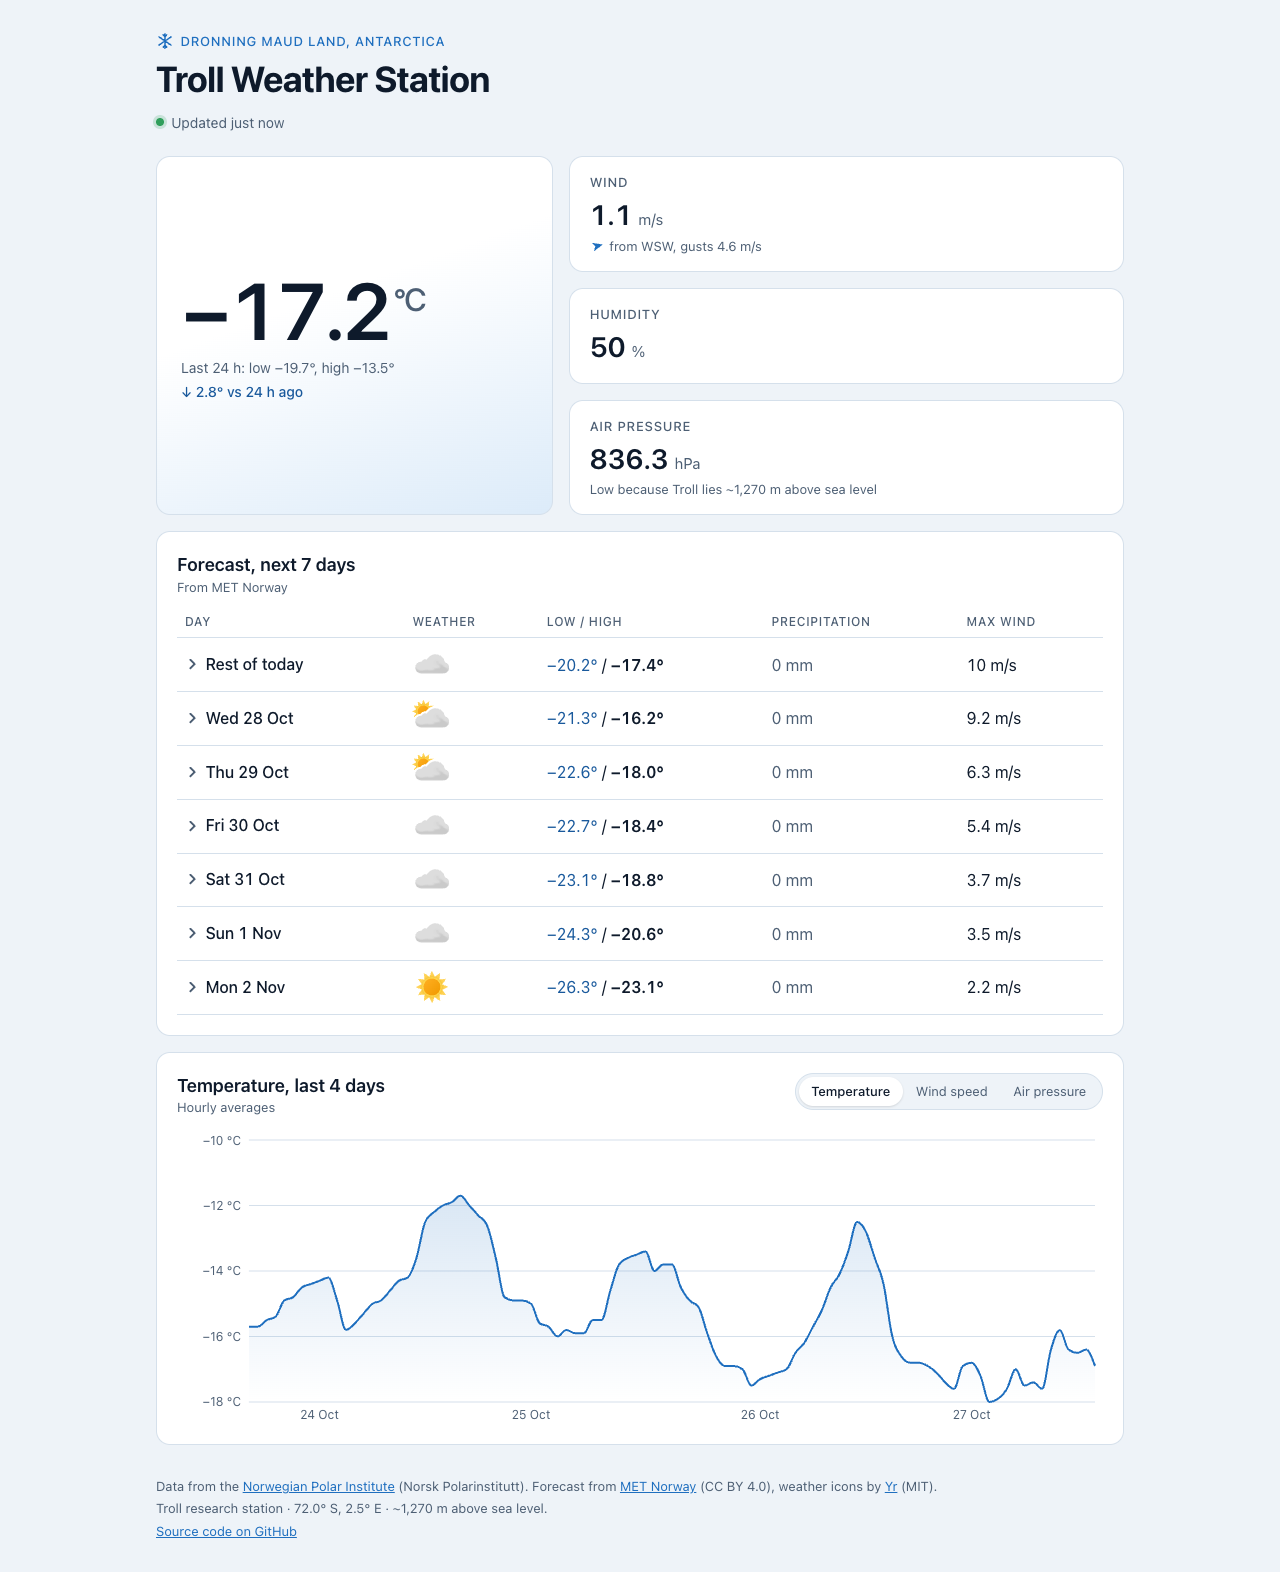
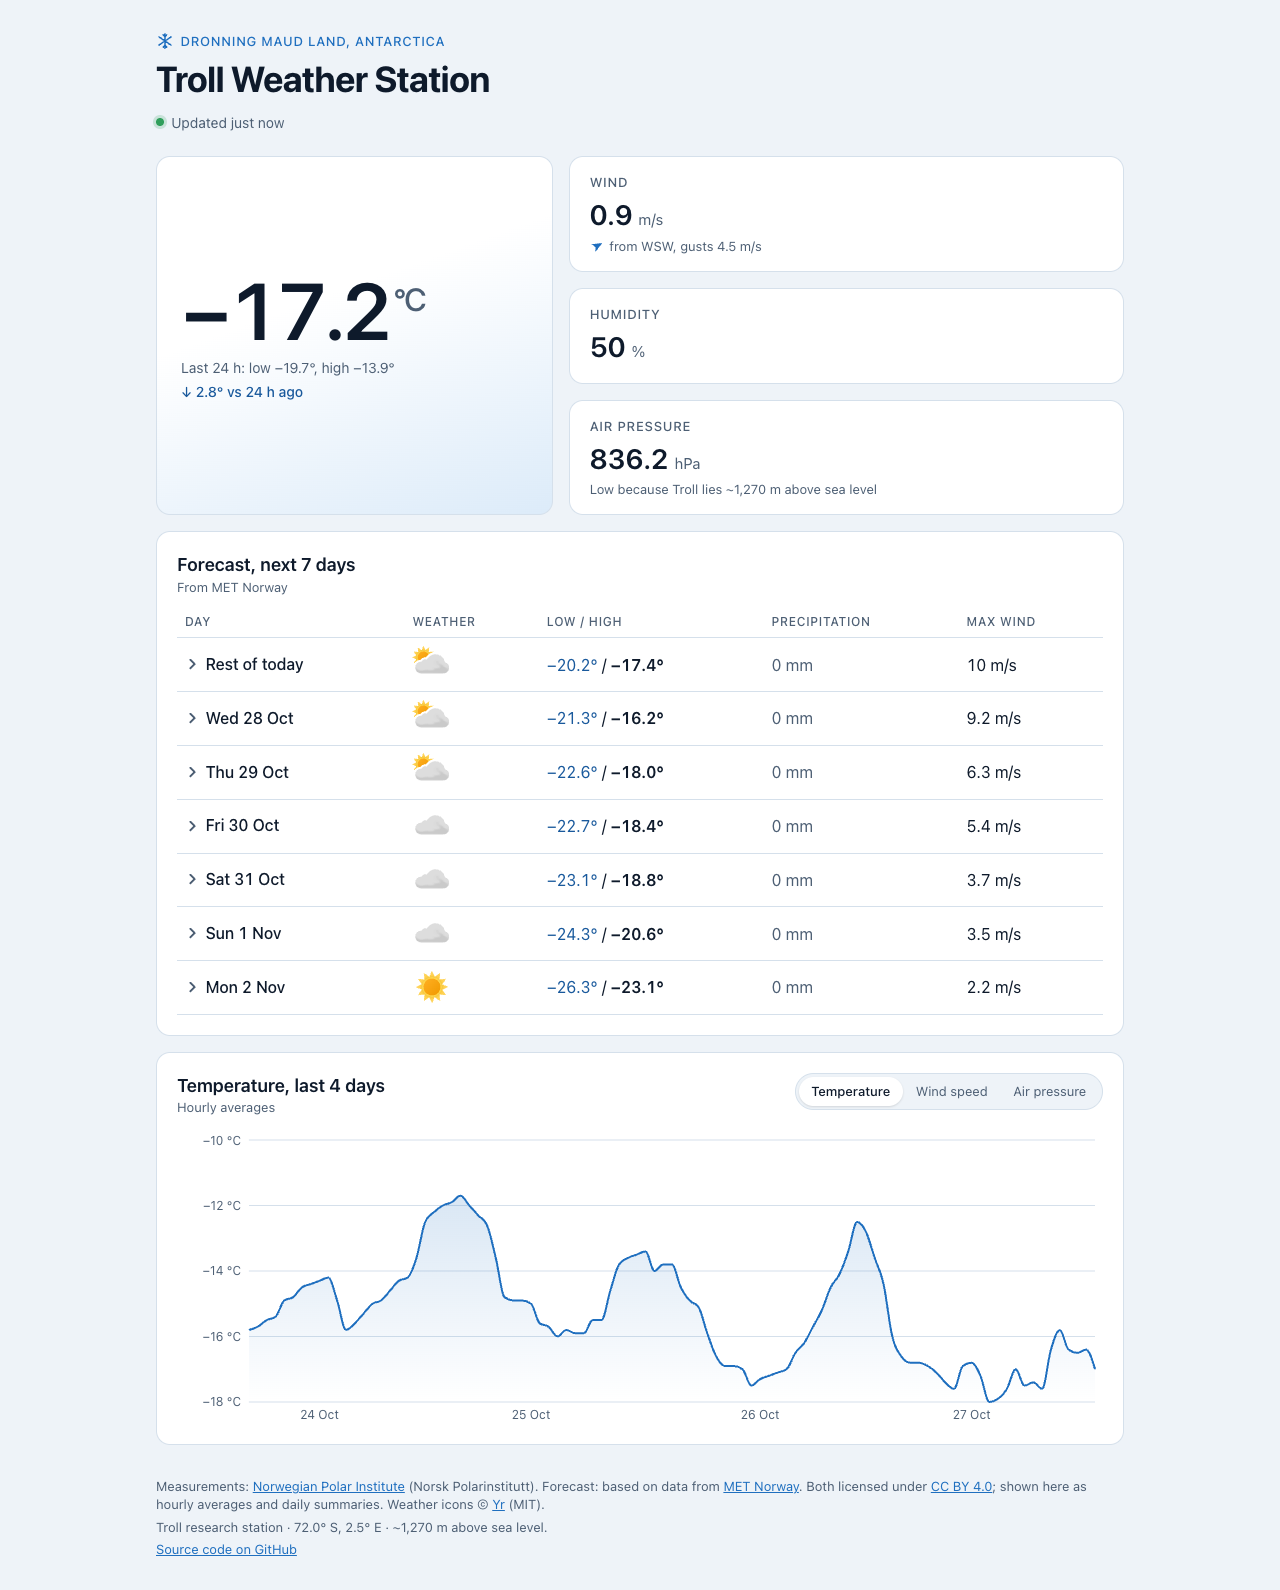
Complete CC BY 4.0 attribution and document data licences and terms
- Footer links the Troll dataset DOI and the CC BY 4.0 licence, and
  notes that values are aggregated (required by CC BY 4.0)
- Log MET Norway's 203 'deprecated' status as their terms ask
- README: licence table, point-by-point MET terms of service
  compliance and a privacy note

diff --git a/src/App.jsx b/src/App.jsx
@@ -33,10 +33,14 @@ function Shell({ children }) {
         {children}
       </main>
       <footer className="page-footer">
+        {/* CC BY 4.0 requires credit, a link to the licence and a note that the data was changed. */}
         <p>
-          Data from the <a href="https://www.npolar.no/en/">Norwegian Polar Institute</a> (Norsk
-          Polarinstitutt). Forecast from <a href="https://api.met.no/">MET Norway</a> (CC BY 4.0),
-          weather icons by <a href="https://github.com/metno/weathericons">Yr</a> (MIT).
+          Measurements: <a href="https://doi.org/10.21334/npolar.2017.79d4b7c7">Norwegian Polar
+          Institute</a> (Norsk Polarinstitutt). Forecast: based on data from{' '}
+          <a href="https://api.met.no/">MET Norway</a>. Both licensed under{' '}
+          <a href="https://creativecommons.org/licenses/by/4.0/">CC BY 4.0</a>; shown here as
+          hourly averages and daily summaries. Weather icons ©{' '}
+          <a href="https://github.com/metno/weathericons">Yr</a> (MIT).
         </p>
         <p>Troll research station · 72.0° S, 2.5° E · ~1,270 m above sea level.</p>
         <p>

diff --git a/src/forecast.js b/src/forecast.js
@@ -86,6 +86,8 @@ export function summariseDays(timeseries, days = 7) {
 export async function fetchForecast() {
   const response = await fetch(FORECAST_URL)
   if (!response.ok) throw new Error(`Forecast error: ${response.status}`)
+  // MET's terms: 203 means this API version is deprecated – log it so it gets noticed.
+  if (response.status === 203) console.warn('MET Norway: Locationforecast 2.0 is deprecated, see https://api.met.no/')
   const result = await response.json()
   return {
     updatedAt: result.properties.meta.updated_at,

diff --git a/README.md b/README.md
@@ -177,6 +177,32 @@ declarative API and good documentation.
 - Wind chill uses the North American / UK formula and is only shown for wind above 4.8 km/h.
 - The low air pressure (~840 hPa) is expected: Troll lies about 1,270 m above sea level.
 
-Data: [Norwegian Polar Institute](https://www.npolar.no/en/) open weather API ·
-forecast from [MET Norway](https://api.met.no/) (CC BY 4.0) ·
-weather icons from [metno/weathericons](https://github.com/metno/weathericons) (MIT).
+## Data, licences and terms
+
+| Source | Licence | How this app complies |
+|---|---|---|
+| [Troll meteorological data](https://doi.org/10.21334/npolar.2017.79d4b7c7), Norwegian Polar Institute | CC BY 4.0 | Credited with DOI link, licence link and a note that values are aggregated |
+| [Locationforecast](https://api.met.no/weatherapi/locationforecast/2.0/documentation), MET Norway | CC BY 4.0 / NLOD 2.0 + [terms of service](https://api.met.no/doc/TermsOfService) | See below |
+| [Weather icons](https://github.com/metno/weathericons), © Yr | MIT | Licence file shipped with the icons (`public/weather-icons/LICENSE.txt`) |
+
+MET Norway's terms of service, point by point:
+
+- **Credit:** "based on data from MET Norway" with a link to the licence, and changes noted.
+- **Identification:** browsers can't set `User-Agent`, so – as the terms allow for websites –
+  the app is identified by the `Origin` header of its simple cross-origin `GET` requests
+  (no custom headers, so no CORS preflight, which MET does not support).
+- **Caching:** responses are kept for 30 minutes and the browser's HTTP cache honours
+  `Expires` and revalidates with `If-Modified-Since`; no polling while the tab is hidden.
+- **Traffic:** one request per visitor per 30 minutes, far below the 20 requests/second limit.
+  MET asks high-traffic sites to put a caching proxy in front of the API; that would be the
+  next step if this site ever got real traffic.
+- **Coordinates** use 2 decimals (max 4 allowed); HTTPS and gzip are used; a `203`
+  (deprecated version) response is logged.
+- **Branding:** the site isn't presented as Yr or MET Norway. Saying that MET's Locationforecast
+  is the same data Yr uses is a factual statement, not an endorsement.
+
+Privacy: the site sets no cookies and has no analytics. `localStorage` only holds cached
+weather data. Visitors' browsers contact GitHub Pages, the Polar Institute and MET Norway
+directly, so those services see the visitor's IP address – a proxy would hide it.
+
+*This is a summary of the published terms as of October 2026, not legal advice.*
